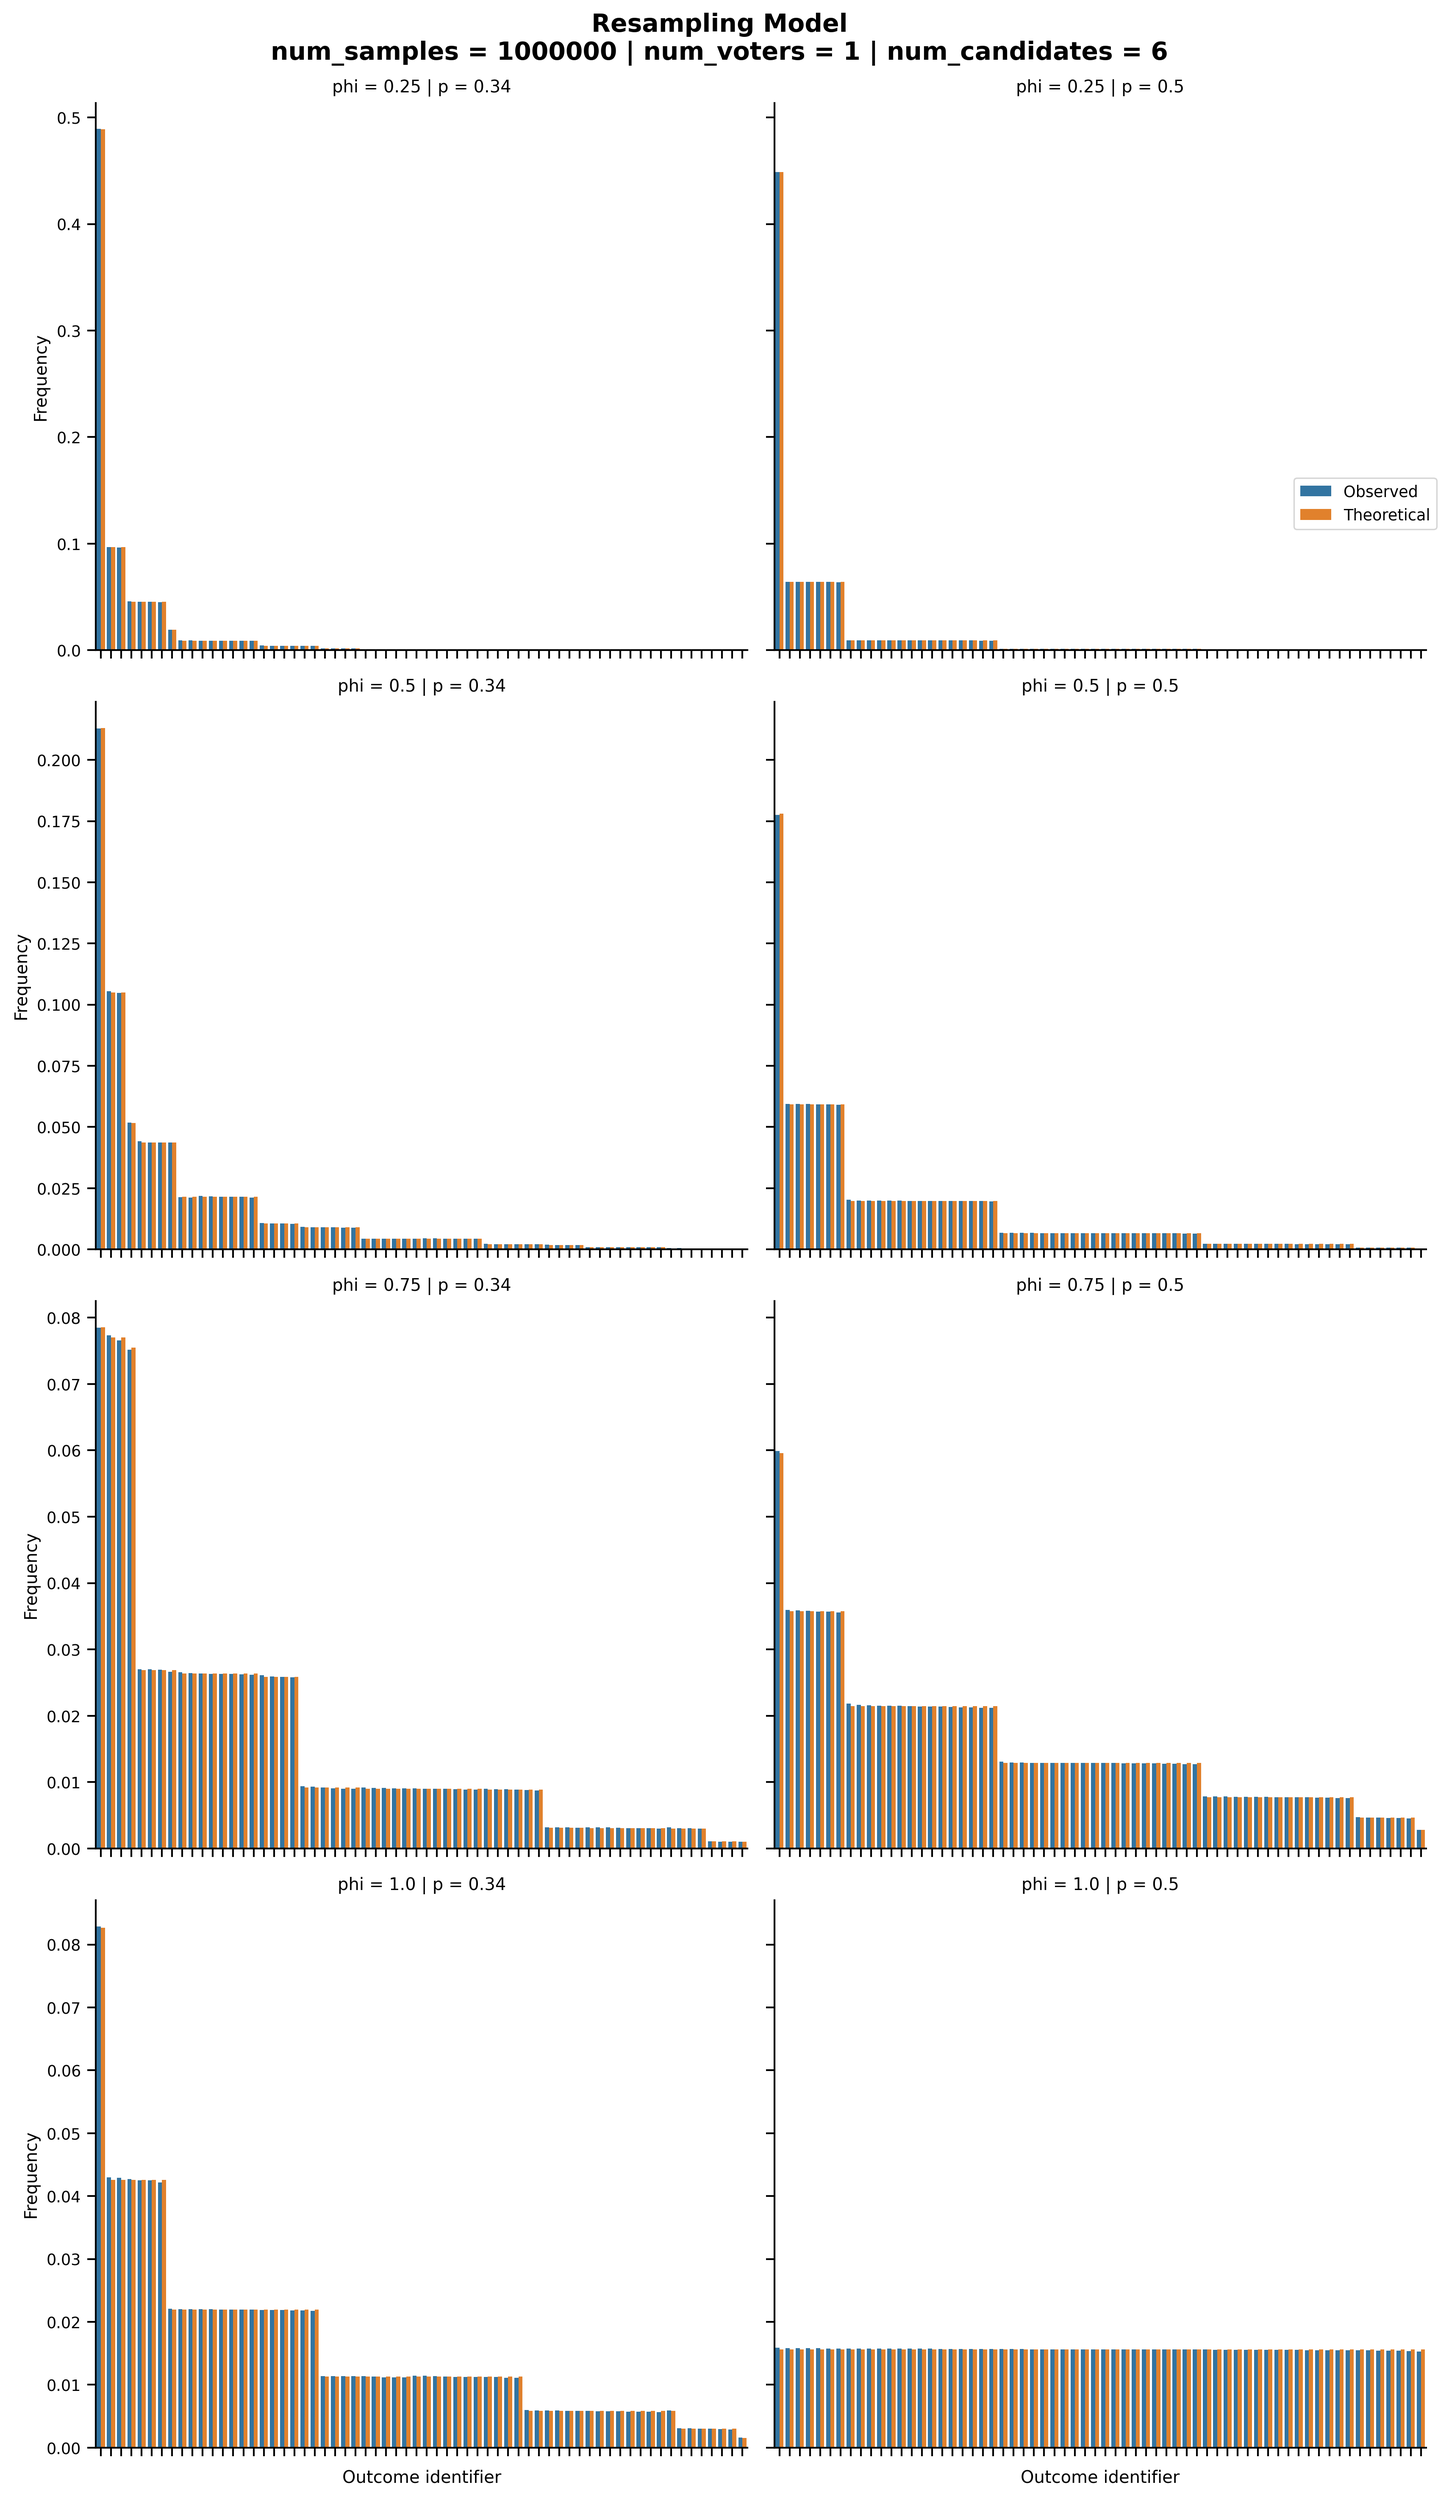
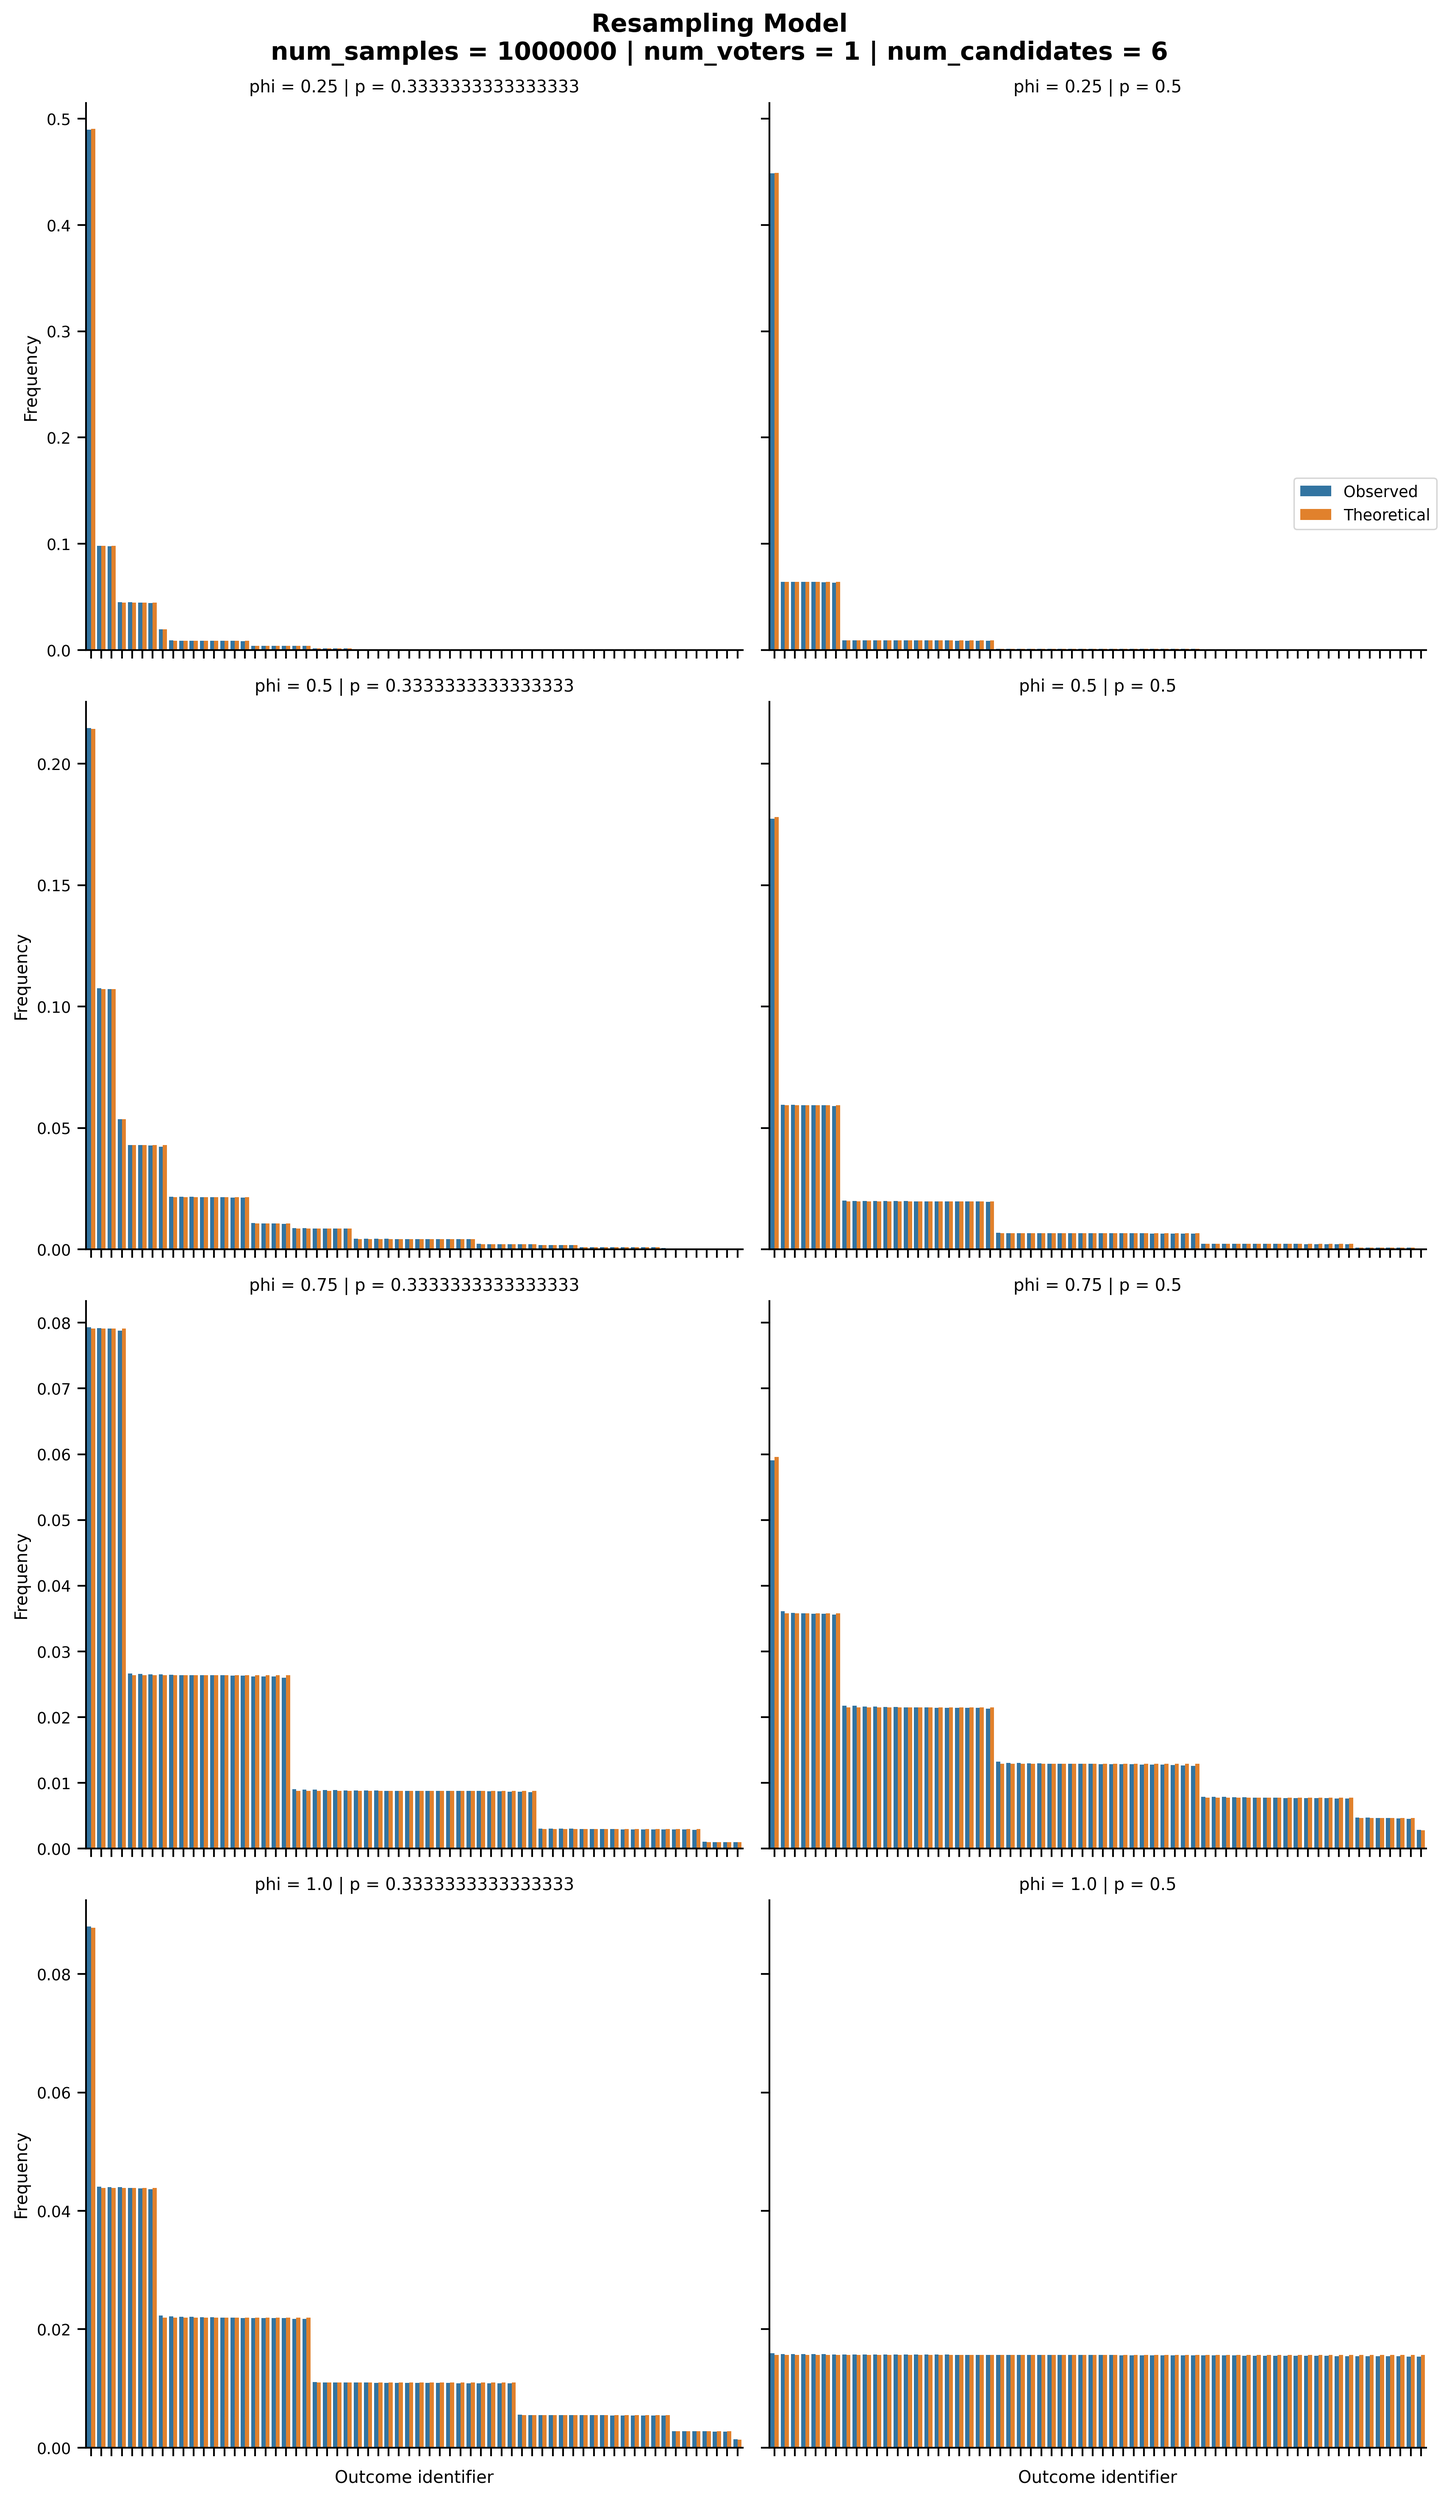
approval validation

diff --git a/validation/approval/resampling.py b/validation/approval/resampling.py
@@ -1,6 +1,6 @@
 import math
 
-from prefsampling.approval import resampling
+from prefsampling.approval import resampling, disjoint_resampling
 from validation.utils import get_all_subsets
 from validation.validator import Validator
 
@@ -12,10 +12,10 @@ class ApprovalResamplingValidator(Validator):
             {"num_voters": 1, "num_candidates": 6, "phi": 0.5, "p": 0.5},
             {"num_voters": 1, "num_candidates": 6, "phi": 0.75, "p": 0.5},
             {"num_voters": 1, "num_candidates": 6, "phi": 1., "p": 0.5},
-            {"num_voters": 1, "num_candidates": 6, "phi": 0.25, "p": 0.34},
-            {"num_voters": 1, "num_candidates": 6, "phi": 0.5, "p": 0.34},
-            {"num_voters": 1, "num_candidates": 6, "phi": 0.75, "p": 0.34},
-            {"num_voters": 1, "num_candidates": 6, "phi": 1., "p": 0.34},
+            {"num_voters": 1, "num_candidates": 6, "phi": 0.25, "p": 1/3},
+            {"num_voters": 1, "num_candidates": 6, "phi": 0.5, "p": 1/3},
+            {"num_voters": 1, "num_candidates": 6, "phi": 0.75, "p": 1/3},
+            {"num_voters": 1, "num_candidates": 6, "phi": 1., "p": 1/3},
         ]
         super(ApprovalResamplingValidator, self).__init__(
             parameters_list,
@@ -59,19 +59,19 @@ class ApprovalResamplingValidator(Validator):
 class ApprovalDisjointResamplingValidator(Validator):
     def __init__(self):
         parameters_list = [
-            {"num_voters": 1, "num_candidates": 4, "phi": 0.5, "p": 0.25, "g": 2},
-            # {"num_voters": 1, "num_candidates": 6, "phi": 0.5, "p": 0.33, "g": 2},
-            # {"num_voters": 1, "num_candidates": 6, "phi": 0.5, "p": 0.25, "g": 3},
-            # {"num_voters": 1, "num_candidates": 6, "phi": 0.5, "p": 0.33, "g": 3},
+            {"num_voters": 1, "num_candidates": 6, "phi": 0.5, "p": 0.25, "g": 2},
+            {"num_voters": 1, "num_candidates": 6, "phi": 0.5, "p": 1/3, "g": 2},
+            {"num_voters": 1, "num_candidates": 6, "phi": 0.5, "p": 0.25, "g": 3},
+            {"num_voters": 1, "num_candidates": 6, "phi": 0.5, "p": 1/3, "g": 3},
         ]
         super(ApprovalDisjointResamplingValidator, self).__init__(
             parameters_list,
             "Disjoint Resampling",
             "disjoint_resampling",
             True,
-            sampler_func=resampling,
+            sampler_func=disjoint_resampling,
             constant_parameters=("num_voters", "num_candidates", "phi"),
-            faceted_parameters=("phi", "p"),
+            faceted_parameters=("p", "g"),
         )
 
     def all_outcomes(self, sampler_parameters):
@@ -81,22 +81,28 @@ class ApprovalDisjointResamplingValidator(Validator):
         m = sampler_parameters["num_candidates"]
         p = sampler_parameters["p"]
         phi = sampler_parameters["phi"]
+        num_groups = sampler_parameters["g"]
         k = math.floor(p*m)
-        central_vote = {i for i in range(k)}
+        central_votes = []
+        for g in range(num_groups):
+            central_votes.append({g * k + i for i in range(k)})
 
         A = {}
         for outcome in all_outcomes:
-            prob = 1
-            for c in range(m):
-                if c in central_vote and c in outcome:
-                    prob *= (1-phi) + phi*p
-                elif c in central_vote and c not in outcome:
-                    prob *= phi*(1-p)
-                elif c not in central_vote and c in outcome:
-                    prob *= phi*p
-                else:
-                    prob *= (1-phi) + phi*(1-p)
-            A[str(outcome)] = prob
+            probs = []
+            for central_vote in central_votes:
+                prob = 1
+                for c in range(m):
+                    if c in central_vote and c in outcome:
+                        prob *= (1-phi) + phi*p
+                    elif c in central_vote and c not in outcome:
+                        prob *= phi*(1-p)
+                    elif c not in central_vote and c in outcome:
+                        prob *= phi*p
+                    else:
+                        prob *= (1-phi) + phi*(1-p)
+                probs.append(prob)
+            A[str(outcome)] = sum(probs) / len(probs)
         return A
 
     def sample_cast(self, sample):

diff --git a/validation/approval/noise.py b/validation/approval/noise.py
@@ -12,10 +12,10 @@ class ApprovalNoiseValidator(Validator):
             {"num_voters": 1, "num_candidates": 6, "phi": 0.5, "p": 0.5},
             {"num_voters": 1, "num_candidates": 6, "phi": 0.75, "p": 0.5},
             {"num_voters": 1, "num_candidates": 6, "phi": 1., "p": 0.5},
-            {"num_voters": 1, "num_candidates": 6, "phi": 0.25, "p": 0.34},
-            {"num_voters": 1, "num_candidates": 6, "phi": 0.5, "p": 0.34},
-            {"num_voters": 1, "num_candidates": 6, "phi": 0.75, "p": 0.34},
-            {"num_voters": 1, "num_candidates": 6, "phi": 1., "p": 0.34},
+            {"num_voters": 1, "num_candidates": 6, "phi": 0.25, "p": 1/3},
+            {"num_voters": 1, "num_candidates": 6, "phi": 0.5, "p": 1/3},
+            {"num_voters": 1, "num_candidates": 6, "phi": 0.75, "p": 1/3},
+            {"num_voters": 1, "num_candidates": 6, "phi": 1., "p": 1/3},
         ]
         super(ApprovalNoiseValidator, self).__init__(
             parameters_list,

diff --git a/validation/approval/impartial.py b/validation/approval/impartial.py
@@ -1,7 +1,6 @@
 from prefsampling.approval import impartial
 from validation.utils import get_all_subsets
 from validation.validator import Validator
-from math import factorial
 
 
 class ApprovalImpartialValidator(Validator):
@@ -34,11 +33,9 @@ class ApprovalImpartialValidator(Validator):
 
         probabilities = [None for _ in range(m+1)]
         for k in range(m+1):
-            binomial_coefficient = factorial(m) / (factorial(k) * factorial(m - k))
-            probability = binomial_coefficient * (p ** k) * ((1 - p) ** (m - k))
-            probabilities[k] = probability
+            probabilities[k] = (p ** k) * ((1 - p) ** (m - k))
 
-        return {str(len(o)): probabilities[len(o)] for o in all_outcomes}
+        return {str(o): probabilities[len(o)] for o in all_outcomes}
 
     def sample_cast(self, sample):
-        return str(len(sample[0]))
+        return str(sample[0])

diff --git a/validation/run.py b/validation/run.py
@@ -50,7 +50,7 @@ from validation.tree.schroeder import (
 ALL_APPROVAL_VALIDATORS = [
     # ApprovalImpartialValidator(),
     # ApprovalIdentityValidator(),
-    ApprovalNoiseValidator(),
+    # ApprovalNoiseValidator(),
     # ApprovalResamplingValidator(),
     # ApprovalDisjointResamplingValidator(),
 ]
@@ -83,7 +83,7 @@ ALL_TREE_VALIDATORS = [
 if __name__ == "__main__":
     logging.basicConfig(format="%(levelname)s: %(message)s", level=logging.INFO)
 
-    num_observations = 1000
+    num_observations = 1000000
 
     for validator_list, nickname in [
         (ALL_APPROVAL_VALIDATORS, "approval"),

diff --git a/docs-source/source/validation/approval.rst b/docs-source/source/validation/approval.rst
@@ -20,23 +20,25 @@ Resampling
 :py:func:`prefsampling.approval.resampling`
 
 The probability distribution generated by the resampling model.
-See `Szufa et al. (2022) <https://www.ijcai.org/proceedings/2022/0071.pdf>`_
+See the work of `Szufa et al. (2022) <https://www.ijcai.org/proceedings/2022/0071.pdf>`_
 for more details.
 
 .. image:: validation_plots/approval/resampling.png
   :width: 800
   :alt: Observed versus theoretical frequencies for the resampling model
 
-Identity
+Disjoint Resampling
 ----------
 
-:py:func:`prefsampling.approval.identity`
+:py:func:`prefsampling.approval.disjoint_resampling`
 
-The probability distribution generated by the identity model.
+The probability distribution generated by the disjoint resampling model.
+See  the work of `Szufa et al. (2022) <https://www.ijcai.org/proceedings/2022/0071.pdf>`_
+for more details.
 
-.. image:: validation_plots/approval/identity.png
+.. image:: validation_plots/approval/disjoint_resampling.png
   :width: 800
-  :alt: Observed versus theoretical frequencies for the identity model
+  :alt: Observed versus theoretical frequencies for the disjoint resampling model
 
 Noise
 ----------
@@ -48,3 +50,14 @@ The probability distribution generated by the noise model based on the Hamming d
 .. image:: validation_plots/approval/noise.png
   :width: 800
   :alt: Observed versus theoretical frequencies for the noise model
+
+Identity
+----------
+
+:py:func:`prefsampling.approval.identity`
+
+The probability distribution generated by the identity model.
+
+.. image:: validation_plots/approval/identity.png
+  :width: 800
+  :alt: Observed versus theoretical frequencies for the identity model
